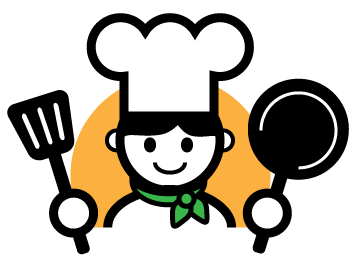
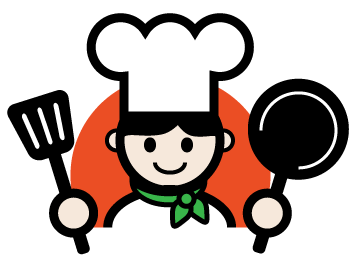
slight color change to amke things easier to read + look less like random yellow button that doesn't mesh per db and jeff wong

Changed region(s): [[0.1549, 0.3235, 0.8056, 0.8529]]

diff --git a/app/assets/stylesheets/events.css.scss b/app/assets/stylesheets/events.css.scss
@@ -1,6 +1,6 @@
 // colors 
 
-$main_orange: rgb(255, 178, 35);
+$main_orange: #EB4D18;
 
 a.sb.yelp {
 	background-image: url(/assets/white_yelp2.png);
@@ -820,7 +820,7 @@ a.sb.yelp.black{
 			}
 			.grab-seats-button, .join-waitlist-button{
 				width: 100%;
-				padding: 7px 0;
+				padding: 7px;
 				-webkit-box-sizing: border-box;
 				-moz-box-sizing: border-box;    
 				box-sizing: border-box; 

diff --git a/app/assets/stylesheets/staticpages.css.scss b/app/assets/stylesheets/staticpages.css.scss
@@ -8,7 +8,7 @@ $trans_black: rgba(54,54,54,0.9);
 $dark_gray: rgb(54, 54, 54);
 $trans_black_more: rgba(54, 54, 54, 0.7);
 $trans: rgba(0,0,0,0);
-$main_orange: rgb(255, 178, 35);
+$main_orange: #EB4D18;
 
 // body and universal styling
 

diff --git a/app/assets/stylesheets/devise.css.scss b/app/assets/stylesheets/devise.css.scss
@@ -4,7 +4,7 @@ $trans_black: rgba(54,54,54,0.9);
 $dark_gray: rgb(54, 54, 54);
 $trans_black_more: rgba(54, 54, 54, 0.7);
 $trans: rgba(0,0,0,0);
-$main_orange: rgb(255, 178, 35);
+$main_orange: #EB4D18;
 
 .devisecontainer{
 	h1{

diff --git a/public/404.html b/public/404.html
@@ -25,7 +25,7 @@
       margin-bottom: 0;
     }
     a, a:hover, a:visited{
-      color: rgb(255, 178, 35);
+      color: #EB4D18;
       text-decoration: none;
       font-weight: 100;
       padding: 0 10px;

diff --git a/public/422.html b/public/422.html
@@ -25,7 +25,7 @@
       margin-bottom: 0;
     }
     a, a:hover, a:visited{
-      color: rgb(255, 178, 35);
+      color: #EB4D18;
       text-decoration: none;
       font-weight: 100;
       padding: 0 10px;

diff --git a/public/500.html b/public/500.html
@@ -25,7 +25,7 @@
       margin-bottom: 0;
     }
     a, a:hover, a:visited{
-      color: rgb(255, 178, 35);
+      color: #EB4D18;
       text-decoration: none;
       font-weight: 100;
       padding: 0 10px;

diff --git a/app/assets/stylesheets/application.css.scss b/app/assets/stylesheets/application.css.scss
@@ -24,7 +24,7 @@
 $trans_black: rgba(54,54,54,0.9);
 $dark_gray: rgb(54, 54, 54);
 $trans_black_more: rgba(54, 54, 54, 0.7);
-$main_orange: rgb(255, 178, 35);
+$main_orange: #EB4D18;
 
 
 html body {

diff --git a/app/assets/stylesheets/survey.css.scss b/app/assets/stylesheets/survey.css.scss
@@ -1,6 +1,6 @@
 // colors 
 
-$main_orange: rgb(255, 178, 35);
+$main_orange: #EB4D18;
 
 a.why-zip, a.why-zip:hover, a.why-zip:visited{
 	color: $main_orange;

diff --git a/app/assets/stylesheets/home.css.scss b/app/assets/stylesheets/home.css.scss
@@ -1,6 +1,6 @@
 // colors 
 
-$main_orange: rgb(255, 178, 35);
+$main_orange: #EB4D18;
 $trans_black: rgba(0,0,0,0.9);
 
 // error message styling

diff --git a/app/assets/stylesheets/campaigns.css.scss b/app/assets/stylesheets/campaigns.css.scss
@@ -1,6 +1,6 @@
 // colors 
 
-$main_orange: rgb(255, 178, 35);
+$main_orange: #EB4D18;
 
 // campaigns index styling
 .campaigns-index{

diff --git a/app/assets/stylesheets/profiles.css.scss b/app/assets/stylesheets/profiles.css.scss
@@ -1,6 +1,6 @@
 // colors 
 
-$main_orange: rgb(255, 178, 35);
+$main_orange: #EB4D18;
 
 // user card styling
 
